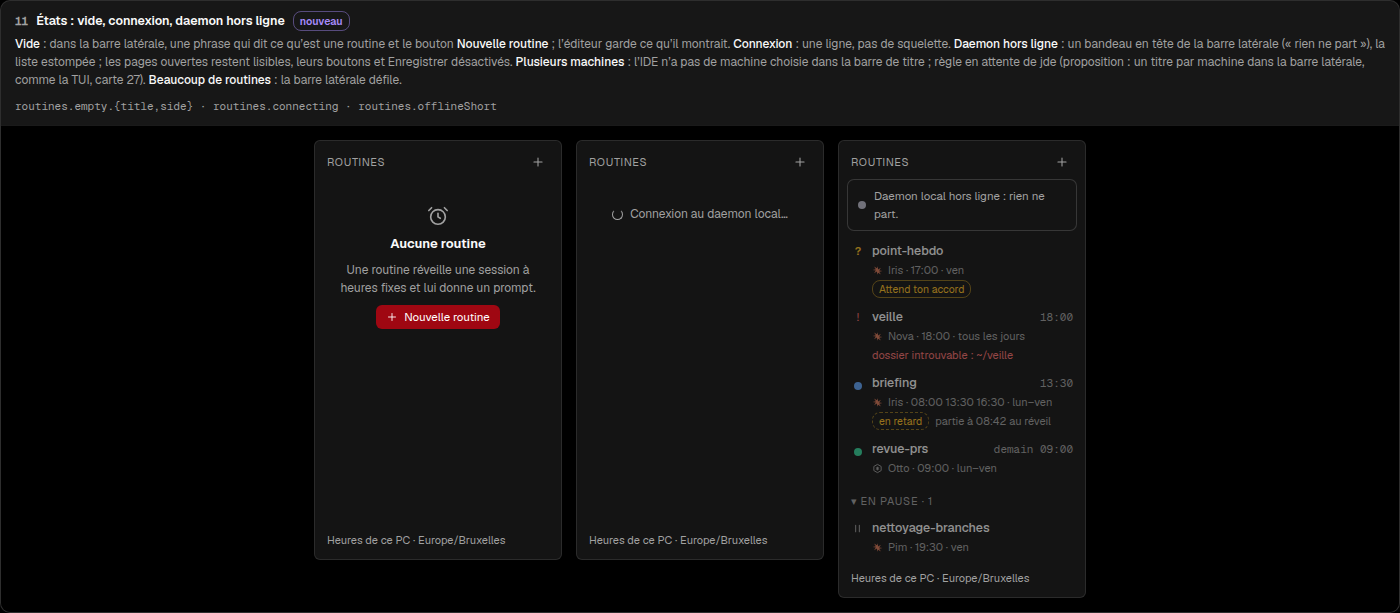
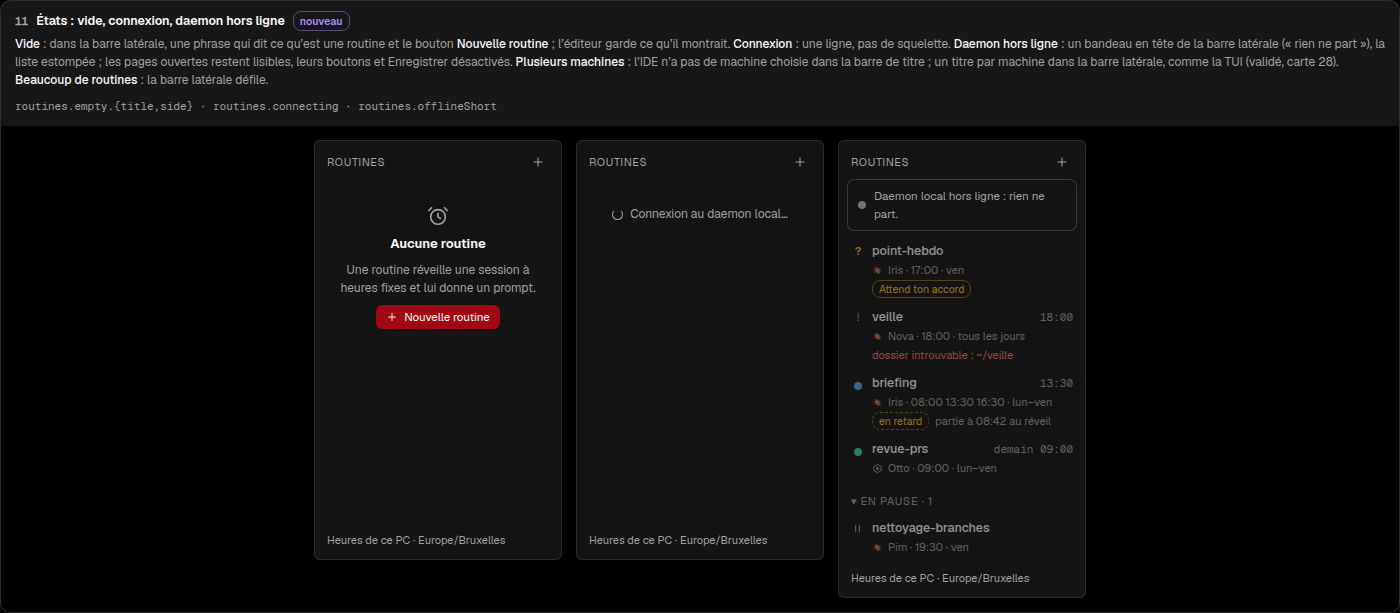
docs(mockups): Routines — jde's five confirmed Desktop choices
Card 28, confirmed by jde on 2026-11-23: one title per machine in the
sidebar and a Machine field when there are several, a text under each form
error, the tab of a routine deleted elsewhere, « … et N autres » beyond three
moments, and the front's text for each daemon refusal field.

Changed region(s): [[0.6757, 0.093, 0.9829, 0.124], [0.0, 0.124, 0.2764, 0.155]]

diff --git a/docs/mockups/ledge-routines.html b/docs/mockups/ledge-routines.html
@@ -334,6 +334,7 @@ main{padding:20px;display:grid;grid-template-columns:repeat(auto-fill,minmax(380
 .prev3.shift .hint{color:var(--st-ask)}
 .rs-prop{grid-column:1/-1;font-size:10.5px;color:var(--muted-foreground);padding:4px 6px 2px 27px;border-left:2px solid color-mix(in srgb,var(--st-ask) 60%,transparent);margin:2px 0 0 9px}
 .rsrow.dimrow{opacity:.6}
+.rs-mach{display:flex;align-items:center;gap:7px;padding:10px 6px 2px;font-size:12px;font-weight:600}
 .glist{margin-left:22px;border-left:2px solid var(--border);padding-left:10px;display:flex;flex-direction:column;gap:4px}
 .glinks a{color:var(--note);cursor:pointer}
 section.fiche{grid-column:1/-1;background:var(--card);border:1px solid var(--border);border-radius:10px;padding:14px 18px;font-size:12.5px}
@@ -690,7 +691,7 @@ function cards(){
     scene: `<div class="paneframe" style="max-height:330px;overflow:hidden">${rpage(revue, {banner: bannerBox('bad', x.delQ('revue-prs'), x.delWhy('Otto'), `<button class="btn">${x.cancel}</button><button class="btn dangerfill">${x.delGo}</button>`), noRuns:true, form:{name:'revue-prs', times:['09:00'], s:'Otto', tool:'codex', st:'idle', stTxt:x.st.idle, dir:'~/Workspace/ledge'}})}</div>`});
 
   C.push({tag:'new', title:'États : vide, connexion, daemon hors ligne', wide:true,
-    why:'<b>Vide</b> : dans la barre latérale, une phrase qui dit ce qu’est une routine et le bouton <b>Nouvelle routine</b> ; l’éditeur garde ce qu’il montrait. <b>Connexion</b> : une ligne, pas de squelette. <b>Daemon hors ligne</b> : un bandeau en tête de la barre latérale (« rien ne part »), la liste estompée ; les pages ouvertes restent lisibles, leurs boutons et Enregistrer désactivés. <b>Plusieurs machines</b> : l’IDE n’a pas de machine choisie dans la barre de titre ; règle en attente de jde (proposition : un titre par machine dans la barre latérale, comme la TUI, carte 27). <b>Beaucoup de routines</b> : la barre latérale défile.',
+    why:'<b>Vide</b> : dans la barre latérale, une phrase qui dit ce qu’est une routine et le bouton <b>Nouvelle routine</b> ; l’éditeur garde ce qu’il montrait. <b>Connexion</b> : une ligne, pas de squelette. <b>Daemon hors ligne</b> : un bandeau en tête de la barre latérale (« rien ne part »), la liste estompée ; les pages ouvertes restent lisibles, leurs boutons et Enregistrer désactivés. <b>Plusieurs machines</b> : l’IDE n’a pas de machine choisie dans la barre de titre ; un titre par machine dans la barre latérale, comme la TUI (validé, carte 28). <b>Beaucoup de routines</b> : la barre latérale défile.',
     keys:'routines.empty.{title,side} · routines.connecting · routines.offlineShort',
     scene: `${rside({empty:true})}${rside({connecting:true})}${rside({offline:true})}`});
 
@@ -1016,11 +1017,52 @@ function precCards(){
   return C;
 }
 
+/* Desktop précisions confirmed by jde on 2026-11-23 (qitem-20261123042718-96d4f615fce34eb1), after dev-front's 11 questions. */
+function precDesktopCards(){
+  const x = t(), fr = L==='fr', C = [];
+  const P = fr ? {
+    m1:'PC du bureau', m2:'Portable', machine:'Machine', errName:'Nom invalide : lettres, chiffres, - et _ seulement.', errSession:'Choisis une session.', errPrompt:'Le prompt est vide.', errDate:'Au moins une date.', errAnchor:'Choisis la semaine de référence.',
+    gone:'Cette routine n’existe plus : elle a été supprimée ailleurs.', closeTab:'Fermer l’onglet',
+    many:'Iris veut programmer « point-121 » : jeu. 3 déc. 16:00, jeu. 10 déc. 16:00, jeu. 17 déc. 16:00 et 2 autres, dans ~/assistant',
+    wakesOn:'· PC du bureau',
+    refusals:[['cwd','Ce dossier n’existe pas sur ce PC.'],['at','Ce moment est déjà passé.'],['name','Iris a déjà une routine « briefing ».'],['tz','Fuseau horaire inconnu : <tz>.'],['session','Cette session ne répond pas.  /  Cette session n’est pas suivie par Ledge.'],['tool','Outil absent sur ce PC : <outil>.'],['model','Modèle inconnu pour <outil> : <modèle>.'],['schedule','Au moins une heure.  /  Au moins un jour.  /  Choisis la semaine de référence.'],['prompt','Le prompt est vide.'],['?','la raison brute du daemon, sous le champ indiqué (ou en tête de la configuration)']],
+  } : {
+    m1:'Office PC', m2:'Laptop', machine:'Machine', errName:'Invalid name: letters, digits, - and _ only.', errSession:'Pick a session.', errPrompt:'The prompt is empty.', errDate:'At least one date.', errAnchor:'Pick the reference week.',
+    gone:'This routine no longer exists: it was deleted elsewhere.', closeTab:'Close the tab',
+    many:'Iris wants to schedule “point-121”: Thu 3 Dec 16:00, Thu 10 Dec 16:00, Thu 17 Dec 16:00 and 2 more, in ~/assistant',
+    wakesOn:'· Office PC',
+    refusals:[['cwd','This folder doesn’t exist on this PC.'],['at','This moment has already passed.'],['name','Iris already has a routine “briefing”.'],['tz','Unknown time zone: <tz>.'],['session','This session isn’t responding.  /  This session isn’t followed by Ledge.'],['tool','Tool not found on this PC: <tool>.'],['model','Unknown model for <tool>: <model>.'],['schedule','At least one time.  /  At least one day.  /  Pick the reference week.'],['prompt','The prompt is empty.'],['?','the daemon’s raw reason, under the field it names (or at the top of the settings)']],
+  };
+  const esc = s => s.replace(/</g,'&lt;').replace(/>/g,'&gt;');
+  const mrow = (name, right, sub, mark='<span class="dot idle" style="margin:5px 3px 0"></span>') => `<div class="rsrow">${mark}<b>${name}</b><span class="nx">${right}</span><small>${logo('claude',11)}<span>${sub}</span></small></div>`;
+  const mhead = (n, on=true) => `<div class="rs-mach"><span class="dot ${on?'idle':''}"></span>${n}</div>`;
+  const side = `<aside class="exp rside" style="min-height:360px"><div class="h"><span>${x.routines}</span><span class="hb">${I.plus(14)}</span></div>
+    ${mhead(P.m1)}<div class="rs-grp">▾ ${fr?'Récurrentes':'Recurring'} · 2</div>${mrow('briefing','13:30',`Iris · 08:00 13:30 16:30 · ${x.monfri}`,'<span class="dot work" style="margin:5px 3px 0"></span>')}${mrow('cloture','17:15',`Iris · 17:15 · ${x.monfri}`,'<span class="dot work" style="margin:5px 3px 0"></span>')}
+    ${mhead(P.m2)}<div class="rs-grp">▾ ${fr?'Récurrentes':'Recurring'} · 1</div>${mrow('garde-mr','15:00',`Garde · 10:30 15:00 · ${x.monfri}`)}<div class="rs-grp">▾ ${fr?'Uniques':'Once'} · 1</div>${mrow('rappel-conges',fr?'4 déc. 09:00':'4 Dec 09:00',`Garde · ${fr?'unique':'once'}`)}
+    <div class="rs-foot">${x.tzFoot}</div></aside>`;
+  C.push({tag:'add', title:'Desktop : plusieurs machines, erreurs, routine supprimée, refus (validé)', wide:true,
+    why:'<b>Plusieurs machines</b> : avec plus d’une machine, la barre latérale a un niveau de plus, <b>un titre par machine</b> (nom et point d’état), avec dedans les groupes Récurrentes / Uniques / En pause / Passées ; la page dit « Réveille Iris … dans ~/assistant · PC du bureau » ; « Nouvelle routine » gagne un champ <b>Machine</b> en tête de la configuration. Avec une machine, rien ne change (même règle que la TUI). <b>Erreurs</b> : chaque contour rouge a son texte sous le champ. <b>Routine supprimée ailleurs</b> : son onglet remplace la page par une phrase et « Fermer l’onglet ». <b>Au-delà de 3 moments</b> dans un texte « À toi » : « … et N autres ». <b>Refus du daemon</b> : un texte du front par champ (le daemon garde ses raisons en français ; contrat ff7a19c2).',
+    keys:'routines.machine · routines.err.{name,session,prompt,date,anchor,tz,unreachable,notLedge,tool(t),model(t,m)} · routines.gone · .closeTab · atoi.routine.more(n)',
+    scene: `${side}
+      <div class="col" style="gap:14px;width:100%;max-width:700px">
+        <div class="paneframe" style="width:100%"><div class="rp2"><section class="sect" style="border:0"><h4>${x.config}</h4><div class="form">
+          ${field(P.machine, `<div class="inp sel" style="max-width:260px"><span class="dot idle"></span>${P.m1}</div>`)}
+          ${field(x.fName, `<div class="col"><div class="inp err">brief ing!</div><span class="hint err">${P.errName}</span></div>`)}
+          ${field(x.fSession, `<div class="col"><div class="inp sel err"><span class="ph">${x.pickSession}</span></div><span class="hint err">${P.errSession}</span></div>`)}
+          ${field(x.fPrompt, `<div class="col"><div class="ta" style="min-height:44px;border-color:var(--st-perm)"></div><span class="hint err">${P.errPrompt}</span></div>`)}
+        </div></section></div></div>
+        <div class="paneframe" style="width:100%;padding:28px 22px;display:flex;flex-direction:column;align-items:center;gap:10px;text-align:center"><span class="mut">${I.alarm(22)}</span><span>${P.gone}</span><button class="btn">${P.closeTab}</button></div>
+        <div class="line" style="font-size:12.5px;background:var(--pane);border:1px solid var(--border);border-radius:8px;padding:9px 12px"><span class="mk ask">?</span><span class="grow wrap">${P.many}</span></div>
+        <div class="paneframe" style="width:100%;padding:12px 16px"><table style="border-collapse:collapse;width:100%;font-size:12px">${P.refusals.map(([f,txt])=>`<tr><td class="mono" style="padding:4px 10px 4px 0;color:var(--muted-foreground);vertical-align:top">${f}</td><td style="padding:4px 0">${esc(txt)}</td></tr>`).join('')}</table></div>
+      </div>`});
+  return C;
+}
+
 function render(){
   const x = t();
   document.getElementById('h1').textContent = x.h1;
   document.getElementById('hsub').textContent = x.hsub;
-  const all = [...cards(), ...atoiCards(), pointCard(), ...phoneCards(), tuiCard(), ...addCards(), ...precCards()];
+  const all = [...cards(), ...atoiCards(), pointCard(), ...phoneCards(), tuiCard(), ...addCards(), ...precCards(), ...precDesktopCards()];
   document.getElementById('main').innerHTML = all.map((c,i)=>`<article class="card ${c.wide?'wide':''} ${c.tag==='add'?'addc':''}" id="s${i+1}"><h2><span class="n">${i+1}</span>${c.title}<span class="tag ${c.tag}">${c.tag==='add'?(L==='fr'?'ajout':'addition'):c.tag==='q'?(L==='fr'?'à trancher':'to decide'):(L==='fr'?'nouveau':'new')}</span></h2><div class="why">${c.why}</div><div class="keys">${c.keys && c.keys!=='—'?'<code>'+c.keys+'</code>':''}</div><div class="scene">${c.scene}</div></article>`).join('') + fiche();
 }
 function set(kind, v){
